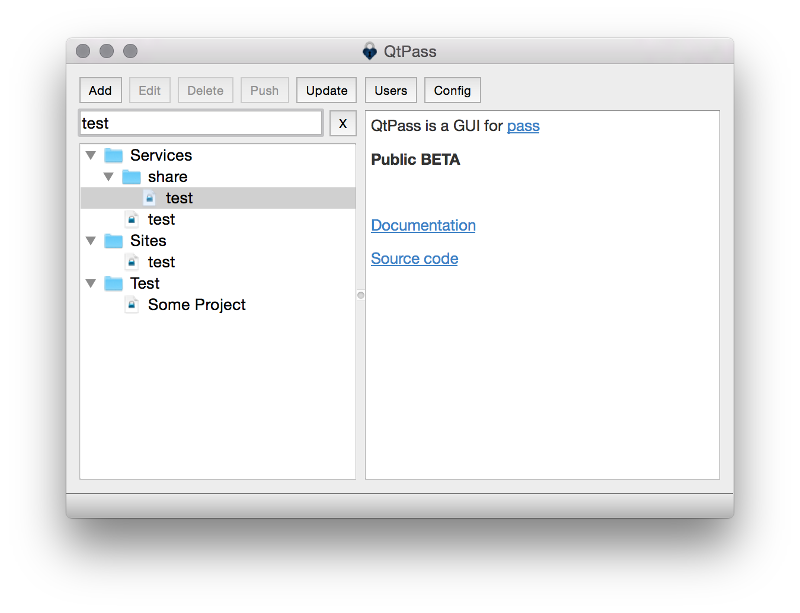
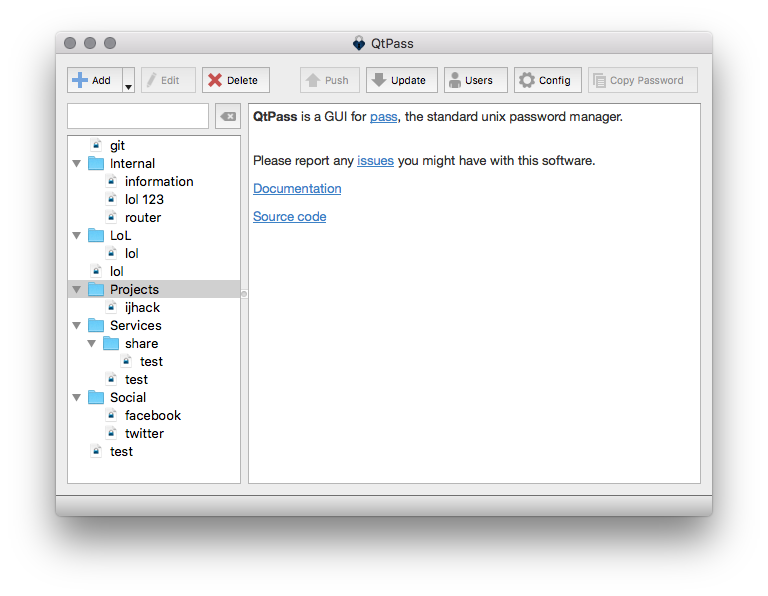
Updated to 1.1

Changed region(s): [[0.0625, 0.0604, 0.9375, 0.906]]

diff --git a/index.html b/index.html
@@ -45,7 +45,7 @@
     <div class="background"></div>
     <div class="wrapper">
       <header>
-        <h1>QtPass <small>1.0</small></h1>
+        <h1>QtPass <small>1.1</small></h1>
         <p>QtPass is a multi-platform GUI for <a href="http://www.passwordstore.org/">pass</a>, the standard unix password manager.</p>
 
         <p class="view">
@@ -71,6 +71,7 @@
         <ul>
         <li>Using <a href="http://www.passwordstore.org/">pass</a> or git and gpg2 directly</li>
         <li>Cross platform: Linux, BSD, OS X and Windows</li>
+        <li>Using native widgets and iconography where possible</li>
         <li>Reading pass <a href="http://www.passwordstore.org/">password stores</a></li>
         <li>Decrypting and displaying the password and related info</li>
         <li>Editing and adding of passwords and information</li>
@@ -83,16 +84,25 @@
         </ul>
 
         <h2><a id="installation" class="anchor" href="#installation" aria-hidden="true"><span class="octicon octicon-link"></span></a>Installation</h2>
-        
-        <p>On most systems all you need is:
-            <code>qmake &amp;&amp; make &amp;&amp; make install</code>
-        </p>
-        
-        <p>On MacOsX:
-            <code>qmake &amp;&amp; make &amp;&amp; macdeployqt QtPass.app -dmg</code><br />
-            Currently seems to only work with MacGPG2
-        </p>
-        
+        <h3><a id="user-content-dependencies" class="anchor" href="#dependencies" aria-hidden="true"><span aria-hidden="true" class="octicon octicon-link"></span></a>Dependencies</h3>
+        <ul>
+          <li>QtPass requires Qt 4.8 or later, preferably Qt5.</li>
+          <li>The Linguist package is required to compile the translations.</li>
+          <li>For use of the fallback icons the SVG library is required.</li>
+        </ul>
+
+        <p>On most *nix systems all you need is:</p>
+
+        <pre><code>qmake &amp;&amp; make &amp;&amp; make install</code></pre>
+
+                <p>On Mac OS X:</p>
+
+        <pre><code>brew install qt5
+          brew link --force qt5
+          xcode-select --install
+          qmake &amp;&amp; make &amp;&amp; macdeployqt QtPass.app</code></pre>
+
+        <p>Currently seems to only work with MacGPG2</p>
         <h2><a id="security-considerations" class="anchor" href="#security-considerations" aria-hidden="true"><span class="octicon octicon-link"></span></a>Security considerations</h2>
 
         <p>Using this program will not magically keep your passwords secure against
